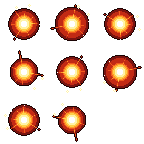
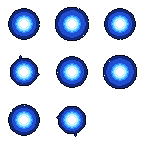
fix(weapons): polish twin daggers sequential alternate slash, fix crystal laser emitter offset, and import green energy orb at 0.5x scale for crossbow

diff --git a/Assets/PixelSurvivor/Scripts/Combat/MeleeSlashWeapon.cs b/Assets/PixelSurvivor/Scripts/Combat/MeleeSlashWeapon.cs
@@ -73,21 +73,29 @@ namespace PixelSurvivor.Combat
 
         private System.Collections.IEnumerator PerformMultiStrikes(Vector2 aimDirection)
         {
+            // Duration of one animation so sequential strikes never overlap
+            float animDuration = (slashVfxFrames != null && slashVfxFrames.Length > 0 && vfxFrameRate > 0)
+                ? (slashVfxFrames.Length / vfxFrameRate)
+                : 0.18f;
+            float delay = Mathf.Max(0.06f, animDuration);
+
             for (int i = 0; i < strikesCount; i++)
             {
                 Vector2 strikeDir = aimDirection;
                 if (i > 0)
                 {
-                    float angleOffset = (i % 2 == 1) ? 15f : -15f;
+                    float angleOffset = (i % 2 == 1) ? 8f : -8f;
                     strikeDir = Quaternion.Euler(0, 0, angleOffset) * aimDirection;
                 }
 
-                PerformSingleStrike(strikeDir);
-                yield return new WaitForSeconds(strikeDelay);
+                // Alternate flip on odd strikes (Strike 1 normal right-to-left, Strike 2 flipped left-to-right)
+                bool flipStrike = (i % 2 == 1);
+                PerformSingleStrike(strikeDir, flipStrike);
+                yield return new WaitForSeconds(delay);
             }
         }
 
-        private void PerformSingleStrike(Vector2 direction)
+        private void PerformSingleStrike(Vector2 direction, bool flipVisual = false)
         {
             if (player == null) return;
 
@@ -118,6 +126,10 @@ namespace PixelSurvivor.Combat
 
                 SpriteRenderer sr = slashObj.AddComponent<SpriteRenderer>();
                 sr.sortingOrder = 25;
+                if (flipVisual)
+                {
+                    sr.flipY = true;
+                }
 
                 AnimatedVFX anim = slashObj.AddComponent<AnimatedVFX>();
                 anim.Initialize(slashVfxFrames, vfxFrameRate);
@@ -168,7 +180,11 @@ namespace PixelSurvivor.Combat
                     baseDamage *= 1.15f;
                     break;
                 case 5:
-                    if (weaponId == "weapon_twin_daggers") strikesCount = 3;
+                    if (weaponId == "weapon_twin_daggers")
+                    {
+                        strikesCount = 3;
+                        vfxFrameRate = 42f; // Snappy triple combo
+                    }
                     else baseDamage *= 1.25f;
                     break;
                 case 6:
@@ -180,7 +196,11 @@ namespace PixelSurvivor.Combat
                     attackRange *= 1.15f;
                     break;
                 case 8:
-                    if (weaponId == "weapon_twin_daggers") strikesCount = 4;
+                    if (weaponId == "weapon_twin_daggers")
+                    {
+                        strikesCount = 4;
+                        vfxFrameRate = 50f; // Lightning fast quad combo
+                    }
                     baseDamage *= 1.35f;
                     baseCooldown *= 0.80f;
                     knockbackForce *= 1.4f;
@@ -206,7 +226,7 @@ namespace PixelSurvivor.Combat
             }
         }
 
-        public void ConfigureMeleeWeapon(string id, string name, Sprite iconSpr, string desc, string syn, float dmg, float cd, float range, float radius, float kb, float scale, int strikes, Sprite[] frames)
+        public void ConfigureMeleeWeapon(string id, string name, Sprite iconSpr, string desc, string syn, float dmg, float cd, float range, float radius, float kb, float scale, int strikes, Sprite[] frames, float fps = 20f, float delay = 0.12f)
         {
             weaponId = id;
             weaponName = name;
@@ -221,6 +241,8 @@ namespace PixelSurvivor.Combat
             vfxScale = scale;
             strikesCount = strikes;
             slashVfxFrames = frames;
+            vfxFrameRate = fps;
+            strikeDelay = delay;
         }
 
         [ContextMenu("Sync Range & Hitbox with VFX Scale")]

diff --git a/Assets/PixelSurvivor/Scripts/Combat/LaserBeamWeapon.cs b/Assets/PixelSurvivor/Scripts/Combat/LaserBeamWeapon.cs
@@ -35,17 +35,20 @@ namespace PixelSurvivor.Combat
                 : (player != null ? player.FacingDirection : Vector2.right);
 
             Vector3 startPos = player != null ? player.transform.position : transform.position;
-            Vector3 centerPos = startPos + (Vector3)(beamDir * (beamLength / 2f));
+            // Emitter starts cleanly 0.45m in front of player (zero segment behind character)
+            Vector3 emitterPos = startPos + (Vector3)(beamDir * 0.45f);
             float angle = Mathf.Atan2(beamDir.y, beamDir.x) * Mathf.Rad2Deg;
 
             // 1. Spawn Laser VFX
             if (laserFrames != null && laserFrames.Length > 0)
             {
                 GameObject laserObj = new GameObject($"{weaponName}_Beam");
-                laserObj.transform.position = centerPos;
+                laserObj.transform.position = emitterPos;
                 laserObj.transform.rotation = Quaternion.Euler(0, 0, angle);
                 float areaMod = weaponController != null ? weaponController.AreaMultiplier : 1f;
-                laserObj.transform.localScale = new Vector3(beamLength / 2.5f, beamThickness * areaMod, 1f);
+                // Beam sprite has its pivot set directly at the emitter origin (12px / 144px).
+                // Effective forward reach is scaled to beamLength.
+                laserObj.transform.localScale = new Vector3(beamLength / 3.75f, beamThickness * areaMod, 1f);
 
                 SpriteRenderer sr = laserObj.AddComponent<SpriteRenderer>();
                 sr.sortingOrder = 24;
@@ -56,7 +59,7 @@ namespace PixelSurvivor.Combat
 
             // 2. Perform Line Cast for instant damage
             float effectiveThickness = beamThickness * (weaponController != null ? weaponController.AreaMultiplier : 1f);
-            RaycastHit2D[] hits = Physics2D.CircleCastAll(startPos, effectiveThickness * 0.5f, beamDir, beamLength, enemyLayer);
+            RaycastHit2D[] hits = Physics2D.CircleCastAll(emitterPos, effectiveThickness * 0.5f, beamDir, beamLength, enemyLayer);
             float dmg = GetTotalDamage();
 
             for (int i = 0; i < hits.Length; i++)

diff --git a/Assets/PixelSurvivor/Scripts/Editor/WeaponPrefabSetupHelper.cs b/Assets/PixelSurvivor/Scripts/Editor/WeaponPrefabSetupHelper.cs
@@ -70,7 +70,8 @@ namespace PixelSurvivor.Editor
                 twinDaggersIcon,
                 "Rapidly slashes twice in quick succession with blinding agility.",
                 "Agile Melee: High attack speed & combo strikes.",
-                14f, 0.65f, 1.8f, 1.1f, 2.5f, 1.25f, 2, slashDaggersFrames
+                14f, 0.65f, 1.8f, 1.1f, 2.5f, 1.25f, 2, slashDaggersFrames,
+                35f, 0.20f
             );
 
             GameObject darkScythe = CreateMeleeWeaponPrefab(
@@ -119,13 +120,14 @@ namespace PixelSurvivor.Editor
 
         private static GameObject CreateMeleeWeaponPrefab(
             string dir, string prefabName, string id, string name, Sprite icon, string desc, string syn,
-            float dmg, float cd, float range, float radius, float kb, float scale, int strikes, Sprite[] frames)
+            float dmg, float cd, float range, float radius, float kb, float scale, int strikes, Sprite[] frames,
+            float fps = 20f, float delay = 0.12f)
         {
             string path = $"{dir}/{prefabName}.prefab";
             GameObject go = new GameObject(prefabName);
 
             MeleeSlashWeapon w = go.AddComponent<MeleeSlashWeapon>();
-            w.ConfigureMeleeWeapon(id, name, icon, desc, syn, dmg, cd, range, radius, kb, scale, strikes, frames);
+            w.ConfigureMeleeWeapon(id, name, icon, desc, syn, dmg, cd, range, radius, kb, scale, strikes, frames, fps, delay);
 
             GameObject prefab = PrefabUtility.SaveAsPrefabAsset(go, path);
             Object.DestroyImmediate(go);

diff --git a/Assets/PixelSurvivor/Scripts/Combat/EnergyOrbProjectile.cs b/Assets/PixelSurvivor/Scripts/Combat/EnergyOrbProjectile.cs
@@ -10,6 +10,8 @@ namespace PixelSurvivor.Combat
         [SerializeField] private float knockbackForce = 3f;
         [SerializeField] private int pierceCount = 2;
         [SerializeField] private float lifetime = 3.5f;
+        [SerializeField] private float visualScale = 0.5f;
+        [SerializeField] private float hitRadius = 0.22f;
 
         [Header("Animation Frames")]
         [SerializeField] private Sprite[] orbFrames;
@@ -27,6 +29,9 @@ namespace PixelSurvivor.Combat
             enemyLayer = targetLayer;
             owner = caster;
             speed = moveSpeed;
+
+            // Enforce 0.5x scale per user request
+            transform.localScale = new Vector3(visualScale, visualScale, 1f);
 
             if (animFrames != null && animFrames.Length > 0)
             {
@@ -51,8 +56,8 @@ namespace PixelSurvivor.Combat
         {
             transform.position += (Vector3)(moveDirection * speed * Time.deltaTime);
 
-            // Check collision with enemies
-            Collider2D[] hits = Physics2D.OverlapCircleAll(transform.position, 0.4f, enemyLayer);
+            // Check collision with enemies (scaled radius)
+            Collider2D[] hits = Physics2D.OverlapCircleAll(transform.position, hitRadius, enemyLayer);
             for (int i = 0; i < hits.Length; i++)
             {
                 if (hits[i].gameObject == owner) continue;

diff --git a/Assets/PixelSurvivor/Scripts/Combat/RangedProjectileWeapon.cs b/Assets/PixelSurvivor/Scripts/Combat/RangedProjectileWeapon.cs
@@ -56,6 +56,7 @@ namespace PixelSurvivor.Combat
             
             float angle = Mathf.Atan2(dir.y, dir.x) * Mathf.Rad2Deg;
             projObj.transform.rotation = Quaternion.Euler(0, 0, angle);
+            projObj.transform.localScale = new Vector3(0.5f, 0.5f, 1f);
 
             EnergyOrbProjectile proj = projObj.AddComponent<EnergyOrbProjectile>();
             float speedMod = weaponController != null ? weaponController.ProjectileSpeedMultiplier : 1f;
